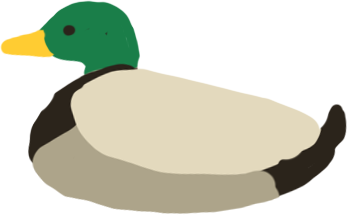
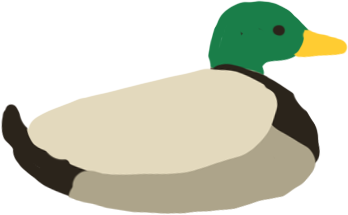
DUCK DUCK DUCK

diff --git a/Lullabye/Assets/Scripts/DuckController.cs b/Lullabye/Assets/Scripts/DuckController.cs
@@ -73,11 +73,13 @@ public class DuckController : MonoBehaviour
 
         surpriseAnim.transform.forward = -tree.mainCam.transform.forward;
         
+        Vector3 toTargetFromCam = target - tree.mainCam.transform.position;
+       
         if (toTarget.magnitude > 0.1f)
         {
           
-            Vector3 localDirToTarget = transform.InverseTransformDirection(toTarget);
-            if (localDirToTarget.x > 0)
+            toTargetFromCam = tree.mainCam.transform.InverseTransformDirection(toTarget);
+            if (toTargetFromCam.x > 0)
             {
                 r.flipX = false;
             }
@@ -121,7 +123,7 @@ public class DuckController : MonoBehaviour
             timeUntilPause -= Time.deltaTime;
             transform.position = Vector3.MoveTowards(transform.position, target, speed * Time.deltaTime);
 
-            if ((hasCopter && Vector3.Distance(transform.position, target) < 0.1f) || (!hasCopter && timeUntilPause < 0))
+            if ((Vector3.Distance(transform.position, target) < 0.1f) || (!hasCopter && timeUntilPause < 0))
             {
                 
                 moving = false;
